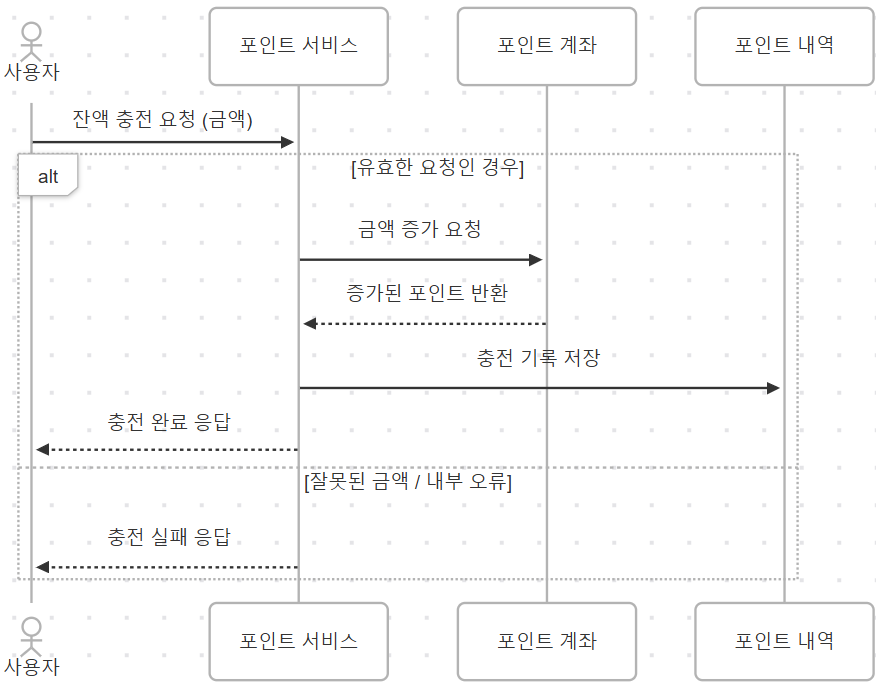
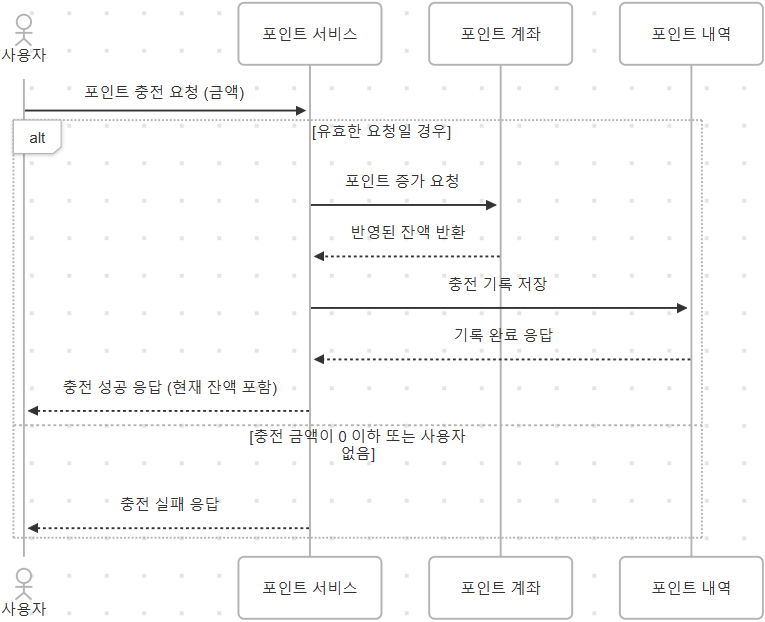
[Docs] 시퀀스 다이어그램 추가

diff --git a/docs/04_Sequence_Diagram.md b/docs/04_Sequence_Diagram.md
@@ -1,0 +1,200 @@
+# 🧾 04_Sequence_Diagrams
+
+
+## 💰 포인트 조회 API
+
+![포인트 조회 API](img/sequence_diagram_getpoint.png)
+
+---
+
+## 💰 포인트 충전 API
+
+![포인트 충전 API](img/sequence_diagram_charge.png)
+
+---
+
+## 📦 상품 조회 API
+
+![상품 조회 API](img/sequence_diagram_getproduct.png)
+
+---
+
+## 🔁 주문/결제 API
+
+![주문/결제 API](img/sequence_diagram_order.png)
+
+---
+
+## 🎟 선착순 쿠폰 발급 API
+
+- 선착순 쿠폰 발급은 다수의 사용자 동시 요청이 들어올 수 있음 
+- 👉 재고 차감 시 트랜잭션 & 락 처리 같은 동시성 제어 중요 !
+
+
+![선착순 쿠폰 발급 API](img/sequence_diagram_coupon.png)
+
+
+---
+
+## 📈 인기 상품 조회 API
+
+### ✅ 배치로 사전 집계 → 통계 테이블에 저장 → API는 그 테이블만 조회
+
+1. 🔄 배치 프로세스: 주기적으로 데이터를 조회하여 인기 상품을 집계
+2. 📈 통계 테이블: 집계된 인기 상품 정보를 저장
+3. ⚡ API 요청: 사용자 요청 시, 이미 계산된 통계 테이블에서 바로 응답
+
+![인기 상품 조회 API](img/sequence_diagram_top_product.png)
+
+<br>
+
+---
+
+### * 다이어그램 도구: [mermaidchart.com](https://www.mermaidchart.com/)
+
+#### 💰 포인트 조회 API
+
+```mermaid
+sequenceDiagram
+    actor 사용자
+    participant 포인트 서비스
+    participant 포인트 계좌
+
+    사용자->>포인트 서비스: 보유 포인트 조회 요청
+
+    alt 유효한 사용자일 경우
+        포인트 서비스->>포인트 계좌: 사용자 ID로 포인트 조회
+        포인트 계좌-->>포인트 서비스: 보유 포인트 반환
+        포인트 서비스-->>사용자: 포인트 조회 성공 응답 (잔액 포함)
+    else 사용자 정보 없음 or 조회 실패
+        포인트 서비스-->>사용자: 포인트 조회 실패 응답
+    end
+```
+
+#### 💰 포인트 충전 API
+
+```mermaid
+sequenceDiagram
+    actor 사용자
+    participant 포인트 서비스
+    participant 포인트 계좌
+    participant 포인트 내역
+
+    사용자->>포인트 서비스: 포인트 충전 요청 (금액)
+
+    alt 유효한 요청일 경우
+        포인트 서비스->>포인트 계좌: 포인트 증가 요청
+        포인트 계좌-->>포인트 서비스: 반영된 잔액 반환
+
+        포인트 서비스->>포인트 내역: 충전 기록 저장
+        포인트 내역-->>포인트 서비스: 기록 완료 응답
+
+        포인트 서비스-->>사용자: 충전 성공 응답 (현재 잔액 포함)
+    else 충전 금액이 0 이하 또는 사용자 없음
+        포인트 서비스-->>사용자: 충전 실패 응답
+    end
+```
+
+#### 📦 상품 조회 API
+```mermaid
+sequenceDiagram
+    actor 사용자
+    participant 상품 서비스
+    participant 상품 옵션
+
+    사용자->>상품 서비스: 상품 조회 요청
+
+    alt 조회 성공
+        상품 서비스->>상품 옵션: 옵션 및 재고 정보 조회
+        상품 옵션-->>상품 서비스: 옵션 및 재고 정보 반환
+
+        상품 서비스-->>사용자: 상품 + 옵션 조회 성공 응답
+    else 오류 발생
+        상품 서비스-->>사용자: 조회 실패 응답
+    end
+```
+
+#### 🔁 주문/결제 API
+```mermaid
+sequenceDiagram
+    actor 사용자
+    participant 주문 서비스
+    participant 포인트 계좌
+    participant 쿠폰
+    participant 재고 시스템
+    participant 주문 기록
+    participant 외부 데이터 플랫폼
+
+    사용자->>주문 서비스: 주문 요청 (상품, 수량, 쿠폰 ID)
+
+    alt 유효한 요청일 경우
+        주문 서비스->>재고 시스템: 재고 차감 요청
+        재고 시스템-->>주문 서비스: 재고 차감 성공
+
+        주문 서비스->>쿠폰: 쿠폰 유효성 확인 및 사용 처리
+        쿠폰-->>주문 서비스: 쿠폰 적용 결과 반환
+
+        주문 서비스->>포인트 계좌: 결제 금액만큼 포인트 차감
+        포인트 계좌-->>주문 서비스: 차감 결과 반환
+
+        주문 서비스->>주문 기록: 주문 저장
+        주문 기록-->>주문 서비스: 주문 ID 반환
+
+        주문 서비스->>외부 데이터 플랫폼: 주문 정보 전송
+        외부 데이터 플랫폼-->>주문 서비스: 전송 완료
+
+        주문 서비스-->>사용자: 주문 완료 응답 (주문 ID 포함)
+    else 재고 부족 or 포인트 부족 or 쿠폰 오류
+        주문 서비스-->>사용자: 주문 실패 응답
+    end
+```
+
+#### 🎟 선착순 쿠폰 발급 API
+```mermaid
+sequenceDiagram
+    actor 사용자
+    participant 쿠폰 서비스
+    participant 쿠폰 재고
+    participant 사용자 쿠폰 목록
+
+    사용자->>쿠폰 서비스: 쿠폰 발급 요청
+
+    alt 잔여 쿠폰 있음
+        쿠폰 서비스->>쿠폰 재고: 발급 가능한지 확인
+        쿠폰 재고-->>쿠폰 서비스: 발급 가능
+
+        쿠폰 서비스->>쿠폰 재고: 재고 차감
+        쿠폰 재고-->>쿠폰 서비스: 차감 완료
+
+        쿠폰 서비스->>사용자 쿠폰 목록: 사용자에게 쿠폰 발급
+        사용자 쿠폰 목록-->>쿠폰 서비스: 발급 완료
+
+        쿠폰 서비스-->>사용자: 쿠폰 발급 성공 응답
+    else 쿠폰 소진 or 중복 발급 요청
+        쿠폰 서비스-->>사용자: 쿠폰 발급 실패 응답
+    end
+```
+
+#### 📈 인기 상품 조회 API
+```mermaid
+sequenceDiagram
+    participant 통계 배치 프로세스
+    participant 주문 기록
+    participant 통계 테이블
+
+    participant 사용자
+    participant 인기 상품 API
+
+    %% 배치 프로세스 흐름
+    loop 1시간
+        통계 배치 프로세스->>주문 기록: 최근 3일 주문 내역 조회
+        주문 기록-->>통계 배치 프로세스: 주문 데이터 반환
+        통계 배치 프로세스->>통계 테이블: 인기 상품 집계 결과 저장
+    end
+
+    %% 사용자 요청 흐름
+    사용자->>인기 상품 API: 인기 상품 조회 요청
+    인기 상품 API->>통계 테이블: 상위 5개 상품 조회
+    통계 테이블-->>인기 상품 API: 인기 상품 데이터 반환
+    인기 상품 API-->>사용자: 인기 상품 응답
+```
